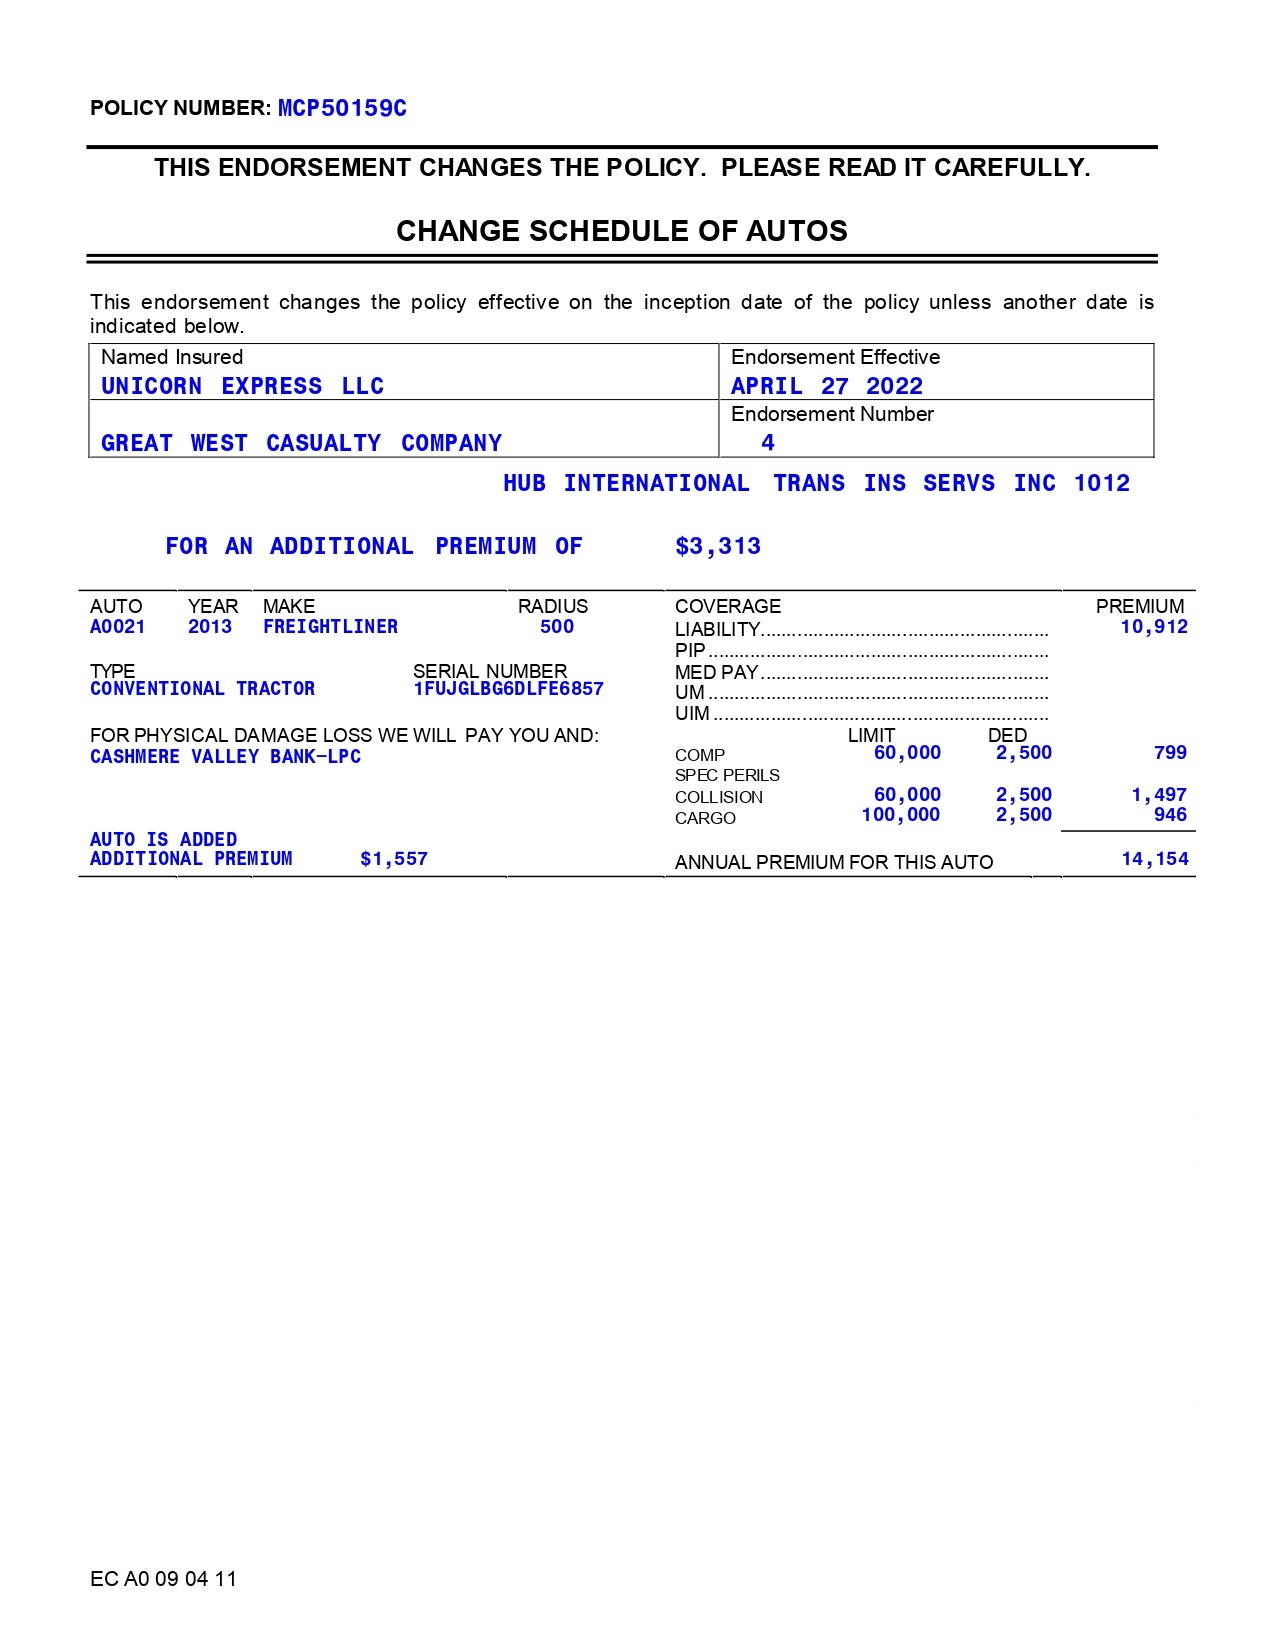
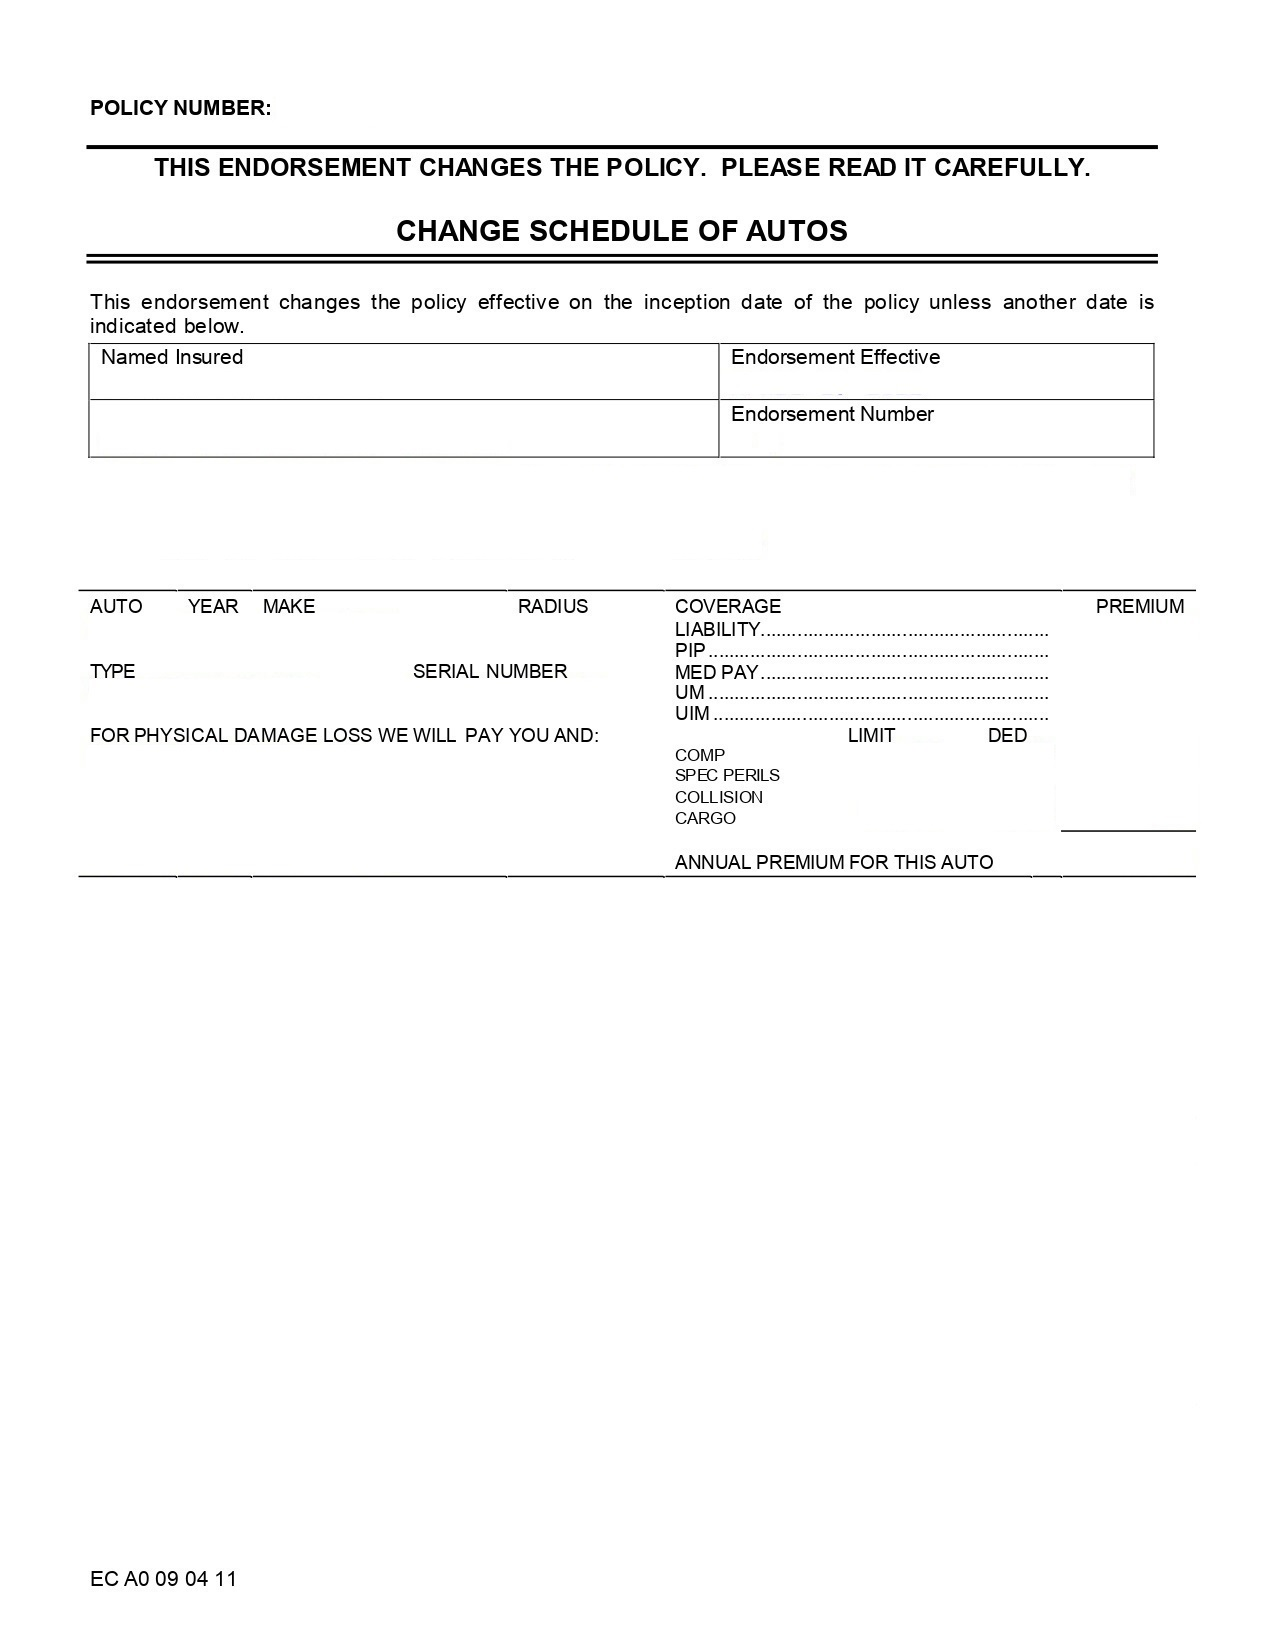
Version Final

diff --git a/index.html b/index.html
@@ -7,19 +7,131 @@
     <link rel="stylesheet" href="./CSS/estilos.css"> 
     <script src="https://cdnjs.cloudflare.com/ajax/libs/jspdf/1.5.3/jspdf.min.js"></script>
     <script src="https://cdnjs.cloudflare.com/ajax/libs/jspdf-autotable/3.2.3/jspdf.plugin.autotable.min.js"></script>
-    <title>Generador Endorsement</title>
+    <title>Generate Endorsement</title>
 </head>
     <body>
         <form>
-            <label>Dato Generico:</label>
-            <input type="text" id="algo">
-            <button  id="download">Generar Endorsement</button>
+            <label>Client Name:</label>
+            <input type="text" id="client-name">
+            <label>Client Address:</label>
+            <input type="text" id="client_address">
+            <label>Client State:</label>
+            <input type="text" id="client_state">
+            <label>Bank Name:</label>
+            <input type="text" id="bank-name">
+            <label>Bank Address:</label>
+            <input type="text" id="bank_address">
+            <label>Bank State:</label>
+            <input type="text" id="bank_state">
+            <label>Auto:</label>
+            <input type="text" id="auto">
+            <label>Year:</label>
+            <input type="text" id="year">
+            <label>Make:</label>
+            <input type="text" id="make">
+            <label>Radius:</label>
+            <input type="text" id="radius">
+            <label>Type:</label>
+            <input type="text" id="type">
+            <label>Serial Number:</label>
+            <input type="text" id="serial_number">
+            <label>Premium:</label>
+            <input type="text" id="premium">
+            <table>
+                <tr>
+                    <th colspan="3">COVERAGE</th>
+                    <th>PREMIUM</th>
+                </tr>
+                <tr>
+                    <th colspan="3">LIABILITY</th>
+                    <td><input type="text" id="liability"></td>
+                </tr>
+                <tr>
+                    <th colspan="3">PIP</th>
+                    <td><input type="text" id="pip"></td>
+                </tr>
+                <tr>
+                    <th colspan="3">MED PAY</th>
+                    <td><input type="text" id="med-pay"></td>
+                </tr>
+                <tr>
+                    <th colspan="3">UM</th>
+                    <td><input type="text" id="um"></td>
+                </tr>
+                <tr>
+                    <th colspan="3">UIM</th>
+                    <td><input type="text" id="uim"></td>
+                </tr>
+                <tr>
+                    <th></th>
+                    <th>LIMIT</th>
+                    <th>DED</th>
+                </tr>
+                <tr>
+                    <th>COMP</th>
+                    <td><input type="text" id="comp-limit"></td>
+                    <td><input type="text" id="comp-ded"></td>
+                    <td><input type="text" id="comp-premium"></td>
+                </tr>
+                <tr>
+                    <th>SPEC PERILS</th>
+                    <td><input type="text" id="spec-limit"></td>
+                    <td><input type="text" id="spec-ded"></td>
+                    <td><input type="text" id="spec-premium"></td>
+                </tr>
+                <tr>
+                    <th>COLLISION</th>
+                    <td><input type="text" id="collision-limit"></td>
+                    <td><input type="text" id="collision-ded"></td>
+                    <td><input type="text" id="collision-premium"></td>
+                </tr>
+                <tr>
+                    <th>CARGO</th>
+                    <td><input type="text" id="cargo-limit"></td>
+                    <td><input type="text" id="cargo-ded"></td>
+                    <td><input type="text" id="cargo-premium"></td>
+                </tr>
+            </table>
+            <button  id="download">Generate Endorsement</button>
         </form>
     </body>
     <script src="./JS/CONSOLA-normal.js"></script>
     <script>
         const onDownload = () => {
-            let nombre = document.getElementById("algo").value;
+            let nombreCliente = document.getElementById("client-name").value;
+            let direccionCliente = document.getElementById("client_address").value;
+            let estadoCliente = document.getElementById("client_state").value;
+            let nombreBanco = document.getElementById("bank-name").value;
+            let direccionBanco = document.getElementById("bank_address").value;
+            let estadoBanco = document.getElementById("bank_state").value;
+            let auto = document.getElementById("auto").value;
+            let year = document.getElementById("year").value;
+            let make = document.getElementById("make").value;
+            let type = document.getElementById("type").value;
+            let radius = document.getElementById("radius").value;
+            let serialNumber = document.getElementById("serial_number").value;
+            let premium = document.getElementById("premium").value;
+            let liability = document.getElementById("liability").value;
+            let pip = document.getElementById("pip").value;
+            let med_pay = document.getElementById("med-pay").value;
+            let um = document.getElementById("um").value;
+            let uim = document.getElementById("uim").value;
+            let comp_limit = document.getElementById("comp-limit").value;
+            let comp_ded = document.getElementById("comp-ded").value;
+            let comp_premium = document.getElementById("comp-premium").value;
+            let spec_limit = document.getElementById("spec-limit").value;
+            let spec_ded = document.getElementById("spec-ded").value;
+            let spec_premium = document.getElementById("spec-premium").value;
+            let collision_limit = document.getElementById("collision-limit").value;    
+            let collision_ded = document.getElementById("collision-ded").value;
+            let collision_premium = document.getElementById("collision-premium").value;
+            let cargo_limit = document.getElementById("cargo-limit").value;    
+            let cargo_ded = document.getElementById("cargo-ded").value;
+            let cargo_premium = document.getElementById("cargo-premium").value;
+
+            let total_premium = parseInt(liability)+parseInt(pip)+parseInt(med_pay)+parseInt(um)+parseInt(uim)+parseInt(comp_premium)+parseInt(spec_premium)+parseInt(collision_premium)+parseInt(cargo_premium)
+
+            var policy_number = ""+intToChar(parseInt(Math.random()*(9 - 0),10))+intToChar(parseInt(Math.random()*(9 - 0),10))+intToChar(parseInt(Math.random()*(9 - 0),10))+parseInt(Math.random()*(9 - 0),10)+parseInt(Math.random()*(9 - 0),10)+parseInt(Math.random()*(9 - 0),10)+parseInt(Math.random()*(9 - 0),10)+parseInt(Math.random()*(9 - 0),10)+intToChar(parseInt(Math.random()*(9 - 0),10));
     
             const doc = new jsPDF();
 
@@ -30,45 +142,162 @@
             var width = doc.internal.pageSize.getWidth();
             var height = doc.internal.pageSize.getHeight();
             
-    
+            //Página 1
             var img = new Image()
             img.src = 'Imagenes/MCP50159C-Endorsement-276051507_page-0001.jpg'
             doc.addImage(img, 'jpg', 0, 0, width, height)
-            doc.setFontSize(12);
+
+            doc.setFontSize(13);
+            doc.setTextColor(0,0,255);
             doc.setFont('CONSOLA', 'normal');
-            doc.text(100,100, "El veloz");
+            doc.text(39.1,41, "1012       DEPT. NO. 1540");
+            doc.text(39.1,46, "(210) 697−0709                         DIRECT BILL POLICY");
+            doc.text(39.1,51, "AAA Insurance");
+            doc.text(39.1,56, "70 NE LOOP 410 STE 425");
+            doc.text(39.1,61, "SAN ANTONIO TX 78216");
+            
+            doc.setFontSize(30);
+            doc.text(70,150, "AAA Insurance");
+
+            doc.setFontSize(13);
+            doc.text(30,250, "Acord Insurance");
+            
+            //Página 2
             doc.addPage();
             img.src = 'Imagenes/MCP50159C-Endorsement-276051507_page-0002.jpg'
             doc.addImage(img, 'jpg', 0, 0, width, height)
 
+            doc.text(39.1,41, "           DEPT. NO. 1540");
+
+            doc.text(39.1,51, nombreCliente);
+            doc.text(39.1,56, direccionCliente);
+            doc.text(39.1,61, estadoCliente);
+
+            doc.setFontSize(13);
+            doc.text(30,250, "Acord Insurance");
+
+            //Página 3
             doc.addPage();
             img.src = 'Imagenes/MCP50159C-Endorsement-276051507_page-0003.jpg'
             doc.addImage(img, 'jpg', 0, 0, width, height)
 
+            doc.setFontSize(12);
+            doc.text(46,21, policy_number);
+
+            doc.setFontSize(13);
+            doc.text(16.2,70.5, nombreCliente);
+            doc.text(16.2,80.5, "ACORD INSURANCE");
+            doc.text(120.5,70.5, "APRIL 27 2022");
+            doc.text(125.2,80.5, "4");
+            doc.text(91,88, "AAA Insurance TRANS INS SERVS INC 1012");
+            
+            doc.text(26,100, "FOR AN ADDITIONAL PREMIUM OF       $"+premium);
+
+            doc.setFontSize(10);
+            doc.text(14.8,114.3, auto);
+            doc.text(31,114.3, year);
+            doc.text(43.5,114.3, make);
+            doc.text(85,114.3, radius);
+            doc.text(14.8,125, type);
+            doc.text(68,125, serialNumber);
+            doc.text(14.8,137, nombreBanco);
+            doc.text(14.8,152, "AUTO IS ADDED");
+            doc.text(14.8,156, "ADDITIONAL PREMIUM     $"+premium);
+
+            doc.text(139.5,136.3, comp_limit);
+            doc.text(139.5,140.3, spec_limit);
+            doc.text(139.5,144.3, collision_limit);
+            doc.text(139.5,148.3, cargo_limit);
+
+            doc.text(163,136.3, comp_ded);
+            doc.text(163,140.3, spec_ded);
+            doc.text(163,144.3, collision_ded);
+            doc.text(163,148.3, cargo_ded);
+
+            doc.text(180.5,114.3, liability);
+            doc.text(180.5,118.3, pip);
+            doc.text(180.5,122.3, med_pay);
+            doc.text(180.5,126.3, um);
+            doc.text(180.5,130.3, uim);
+            doc.text(180.5,136.3, comp_premium);
+            doc.text(180.5,140.3, spec_premium);
+            doc.text(180.5,144.3, collision_premium);
+            doc.text(180.5,148.3, cargo_premium);
+
+            doc.text(180.5,156, total_premium+" ");
+
+            //Página 4
             doc.addPage();
             img.src = 'Imagenes/MCP50159C-Endorsement-276051507_page-0005.jpg'
             doc.addImage(img, 'jpg', 0, 0, width, height)
 
+            doc.setFontSize(12);
+            doc.text(49,23, policy_number);
+
+            doc.setFontSize(13);
+            doc.text(18.5,71, nombreCliente);
+            doc.text(18.5,81.2, "ACORD INSURANCE");
+            doc.text(122.9,70.5, "APRIL 27 2022");
+            doc.text(127.5,80.5, "4");
+            doc.text(93.5,88.5, "AAA Insurance TRANS INS SERVS INC 1012");
+
+            //Página 5
             doc.addPage();
             img.src = 'Imagenes/MCP50159C-Endorsement-276051507_page-0007.jpg'
             doc.addImage(img, 'jpg', 0, 0, width, height)
 
+            doc.setFontSize(12);
+            doc.text(49,23, policy_number);
+
+            doc.setFontSize(13);
+            doc.text(18.5,95.5, nombreCliente);
+            doc.text(18.5,105.8, "ACORD INSURANCE");
+            doc.text(122.9,95.5, "APRIL 27 2022");
+            doc.text(127.5,105.5, "4");
+            doc.text(93.5,113, "AAA Insurance TRANS INS SERVS INC 1012");
+
+            doc.text(17.5,127, "CASHMERE VALLEY BANK");
+            doc.text(17.5,131.5, "124 E PENNY RD STE 202");
+            doc.text(17.5,136, "WENATCHEE WA 98801");
+
+            doc.text(17.5,156, auto+"  "+year+" "+make+" "+type+" "+serialNumber);
+
+            //Página 6
             doc.addPage();
             img.src = 'Imagenes/MCP50159C-Endorsement-276051507_page-0008.jpg'
             doc.addImage(img, 'jpg', 0, 0, width, height)
 
+            doc.setFontSize(12);
+            doc.text(49,21, policy_number);
+
+            doc.setFontSize(13);
+            doc.text(18.5,92.5, nombreCliente);
+            doc.text(18.5,102.8, "ACORD INSURANCE");
+            doc.text(122.9,92.5, "APRIL 27 2022");
+            doc.text(127.5,102.8, "4");
+            doc.text(93.5,110, "AAA Insurance TRANS INS SERVS INC 1012");
+
+            //Página 7
             doc.addPage();
             img.src = 'Imagenes/MCP50159C-Endorsement-276051507_page-0009.jpg'
             doc.addImage(img, 'jpg', 0, 0, width, height)
 
+            //Página 8
             doc.addPage();
             img.src = 'Imagenes/MCP50159C-Endorsement-276051507_page-0010.jpg'
             doc.addImage(img, 'jpg', 0, 0, width, height)
-
+            
             doc.save("documento.pdf");
         };
     
         document.querySelector("#download").addEventListener("click", onDownload);
+
+        function intToChar(int) {
+            const code = 'A'.charCodeAt(0);
+            console.log(code);
+
+            return String.fromCharCode(code + int);
+        }
       </script>
     
 </html>

diff --git a/CSS/estilos.css b/CSS/estilos.css
@@ -1,11 +1,12 @@
 body{
+    font-family: 'Courier New', Courier, monospace;
     margin: 0;
     padding: 20px 0;
     background-color: aquamarine;
 }
 
 form{
-    height: 800px;
+    height: 1470px;
     width: 500px;
     border-radius: 10px;
     box-shadow: 0px 0px 10px black;
@@ -22,15 +23,30 @@ input, button{
 }
 
 button{
+    font-size: 15px;
     color: white;
-    text-shadow: 0px 0px 2px black;
+    text-shadow: 0px 0px 5px black;
     background-color: aqua;
-    border: 1px solid aqua;
+    border: 1px solid black;
     cursor: pointer;
 }
 
 button:hover{
     box-shadow: 0px 0px 5px black;
     background-color: whitesmoke;
-    border: 1px solid whitesmoke;
+}
+
+table{
+    border: 1px solid black;
+    margin-bottom: 20px;
+}
+
+td, th{
+    text-align: left;
+    width: 100px;
+}
+
+td input{
+    width: 80%;
+    height: 80%;
 }
